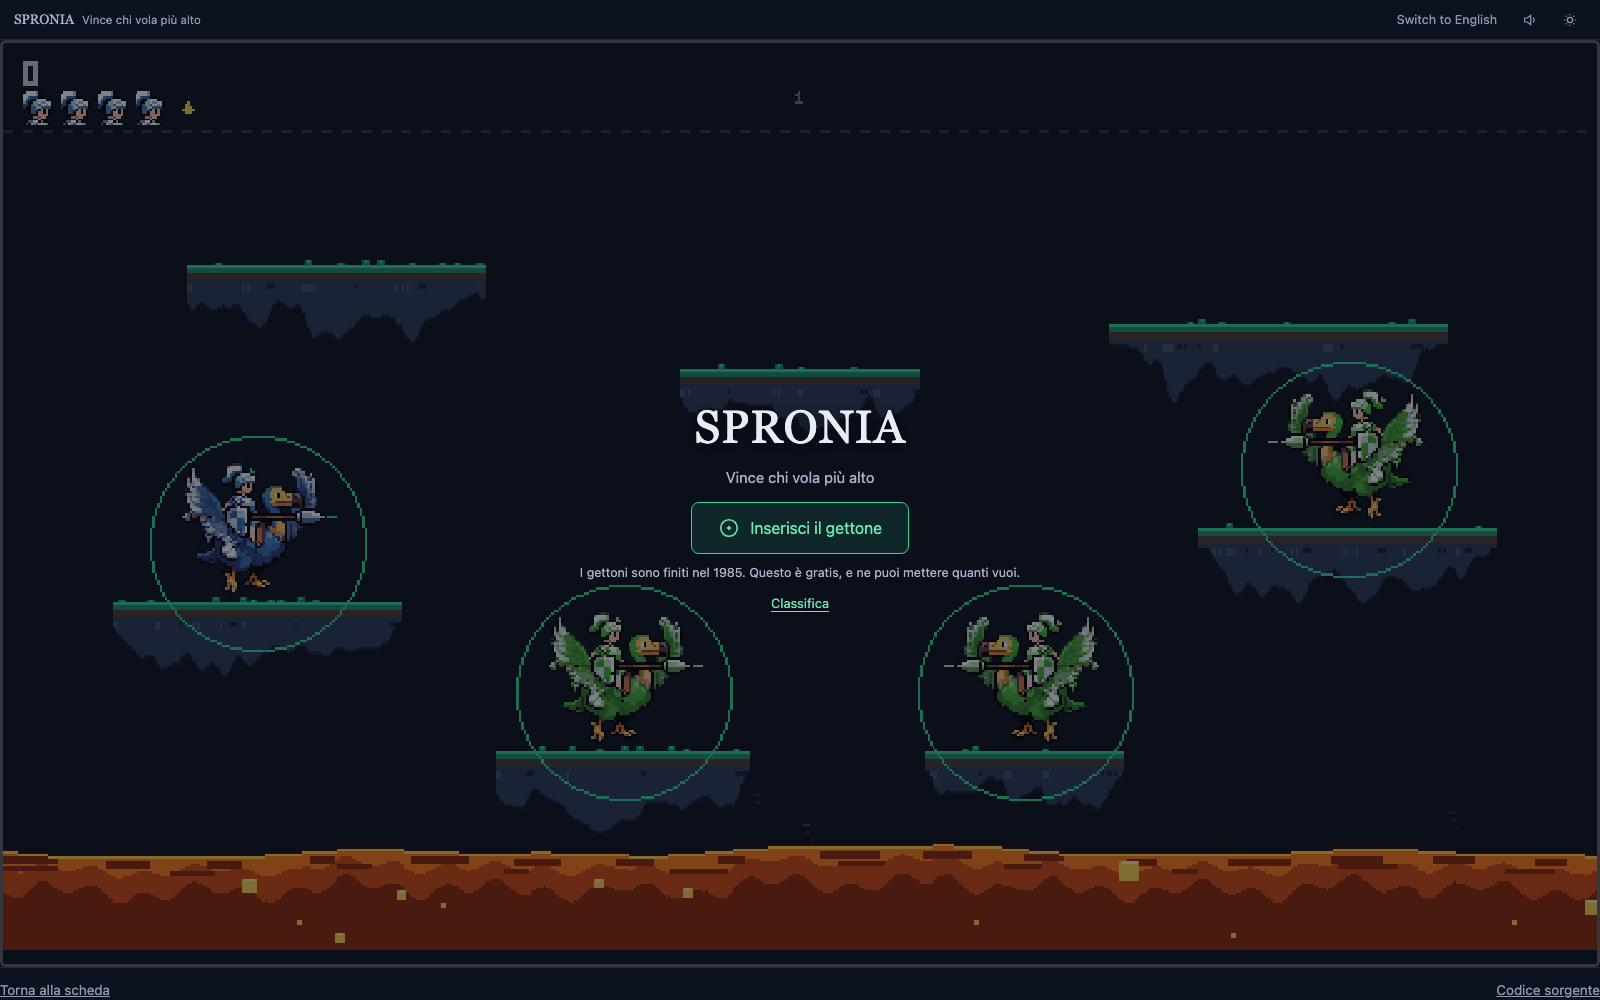
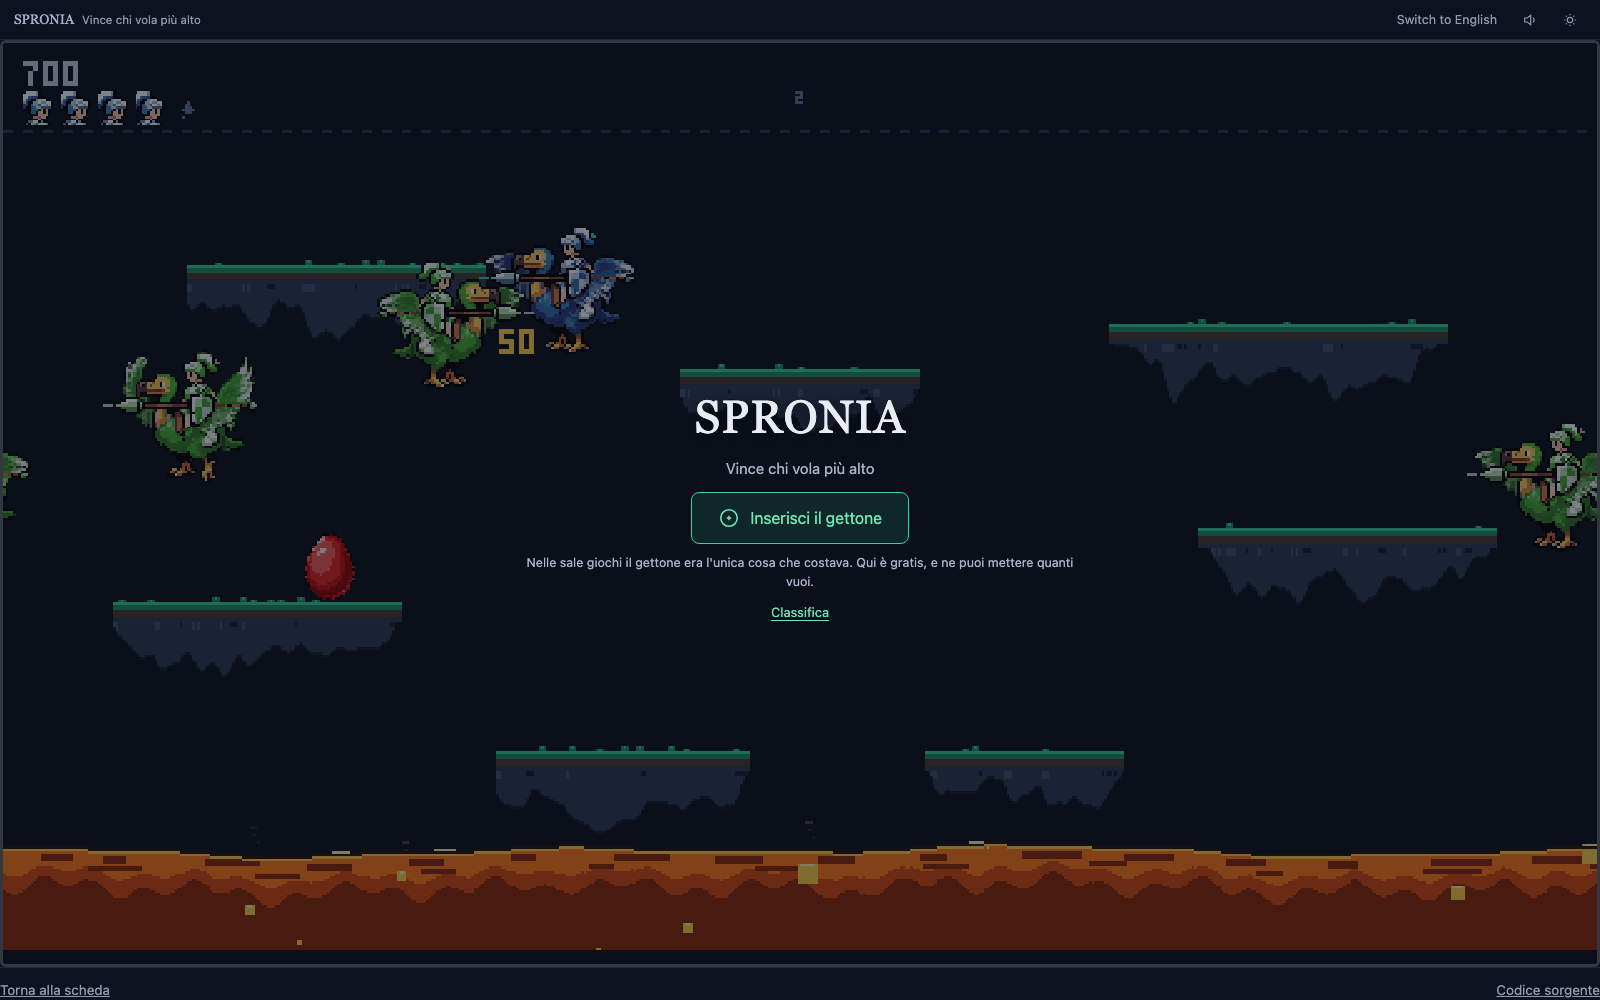
spronia 1.1.2: seconda rilettura, e quello che ha trovato
Screenshot rifatti: adesso la scheda mostra una partita — settecento punti,
ondata due, un duello in corso con il punteggio che vola via e una cella che
cade.

**Una ripetizione, non un errore, ed era la piu' forte della pagina.** «Non c'e'
un tasto per salire» compariva quattro volte sulla scheda: nell'h1, nel
sommario, nell'introduzione e nella riga «Comandi» dei fatti. L'h1 se la tiene;
la riga dei fatti adesso fa il suo mestiere e dice quali sono i tasti.

**Una chiave morta.** `player` era tradotta in due lingue e non la chiedeva
nessuno da quando il pannello di fine partita e' stato riscritto: e' esattamente
la cosa che i due dizionari servono a evitare, e sopravviveva dentro di loro.

Il resto sono nove correzioni di forma, e ognuna ha una ragione:

- «Un giocatore:» apriva la riga dei tasti e c'e' un pulsante che si chiama
  uguale — ora e' «Primo giocatore» / «Secondo giocatore», in tutt'e due le
  lingue;
- «Salvato in <nomefile>» era un calco al contrario: in inglese diceva gia'
  «Saved as», in italiano si dice «Salvato come»;
- «la classifica non verra' tenuta» → «non resta»: il futuro non serviva;
- «Non entra nei primi dieci. La prossima.» era troppo secco per il registro
  del resto;
- in inglese «the rate at which you beat» in una pagina che dice «flap»
  dappertutto, «Level with each other, both bounce away» senza congiunzione,
  «as on a cabinet» senza la glossa che l'italiano ha, e «A person from the team
[…]

diff --git a/en/app/spronia/index.html b/en/app/spronia/index.html
@@ -52,7 +52,7 @@
     "url": "https://ggtechnologies.sm/en/app/spronia/",
     "applicationCategory": "UtilitiesApplication",
     "operatingSystem": "Any (web browser)",
-    "softwareVersion": "1.1.1",
+    "softwareVersion": "1.1.2",
     "datePublished": "2026-08-14",
     "dateModified": "2026-08-27",
     "license": "https://www.apache.org/licenses/LICENSE-2.0",
@@ -154,7 +154,7 @@
         <div class="about-text reveal">
           <p>The apps we publish share a technical constraint rather than a subject: they run on the machine of whoever opens them and send nothing anywhere. A game demonstrates that to everybody who will never open a file of measurements.</p>
           <p>Here the game has one rule and it fits on a line: when two riders touch, the one whose spur is higher stays airborne and the other does not. Everything else — the inertia, the ledges, the metal on the floor — exists to make being higher at the right moment difficult.</p>
-          <p>Flight works the way a flapping machine flies: there is no command for up, there is the rate at which you beat. It is the mechanic that makes the genre recognisable, and it is also why it takes ten seconds to learn and rather longer to master.</p>
+          <p>Flight works the way a flapping machine flies: there is no command for up, there is the rate at which you flap. It is the mechanic that makes the genre recognisable, and it is also why it takes ten seconds to learn and rather longer to master.</p>
         </div>
       <figure class="app-shot reveal">
         <img src="/assets/shot-spronia-en.png" width="1600" height="1000" loading="lazy" decoding="async"
@@ -164,15 +164,15 @@
           <div class="app-list does">
             <h3>What it does</h3>
             <ul class="ticks">
-              <li>You fly by flapping: no key climbs on its own, and holding one down counts as a single beat.</li>
-              <li>On contact the higher spur wins. Level with each other, both bounce away.</li>
+              <li>You fly by flapping: no key climbs on its own, and holding one down counts as a single flap.</li>
+              <li>On contact the higher spur wins. Level with each other and both bounce away.</li>
               <li>Seven ledges across six heights, and the two lowest are short: between them there is nothing but molten metal, so flying low is a choice and not a rest.</li>
               <li>The field wraps horizontally: leave on the right and you come back on the left.</li>
               <li>Whatever you unseat leaves a cell: collect it once it has touched down, or it hatches and comes back a class higher.</li>
               <li>A fire shield that burns whatever you touch, however you touch it: three seconds, and back after ten.</li>
               <li>Waves with rules of their own — cells only, survival, team, duel — announced as they begin.</li>
               <li>Two things come out of the molten metal when you take too long: a claw that grabs whoever flies low, and a fireball that comes for you.</li>
-              <li>A high score table, counters and a coin slot as on a cabinet, with the scores kept in this browser and exportable.</li>
+              <li>A high score table, counters and a coin slot as on an arcade cabinet, with the scores kept in this browser and exportable.</li>
               <li>Sound generated by the browser, with no audio file to download.</li>
               <li>Two play on one keyboard, or one on the keyboard and one on a gamepad, and the keys can be changed if yours will not take the combination.</li>
               <li>After the first visit it works with no connection, in Italian and English, with light and dark themes, and installs as an application.</li>
@@ -199,14 +199,14 @@
             <span class="f-dot" aria-hidden="true"></span>
             <div>
               <h4>Status</h4>
-              <p>Finished and playable throughout: waves, score, lives, high scores and sound. That each of the first sixty waves can be emptied is verified by a check that lives in the code, not by eye.</p>
+              <p>Finished: waves, score, lives, high scores and sound are all there. That each of the first sixty waves can be emptied is verified by a check that lives in the code, not by eye.</p>
             </div>
           </div>
           <div class="fact">
             <span class="f-dot" aria-hidden="true"></span>
             <div>
               <h4>Controls</h4>
-              <p>Two directions, one flap and the fire shield: from the keyboard, or by pressing the field on the side you want to go. There is no command for up.</p>
+              <p>A and D to turn, W to flap, S for the shield — or press the field on the side you want to go, and every press is a flap. The keys can be changed.</p>
             </div>
           </div>
           <div class="fact">
@@ -273,7 +273,7 @@
             </div>
           </div>
         </div>
-        <p class="app-meta"><span><b>Version</b> 1.1.1</span><span><b>Updated</b> 27 August 2026</span><span><b>Licence</b> Apache-2.0</span><a href="https://github.com/G-G-Technologies-Srl/g-g-technologies-srl.github.io/tree/main/app/spronia" rel="noopener">Source code</a></p>
+        <p class="app-meta"><span><b>Version</b> 1.1.2</span><span><b>Updated</b> 27 August 2026</span><span><b>Licence</b> Apache-2.0</span><a href="https://github.com/G-G-Technologies-Srl/g-g-technologies-srl.github.io/tree/main/app/spronia" rel="noopener">Source code</a></p>
       </div>
     </section>
 
@@ -329,7 +329,7 @@
     <section class="cta-band">
       <div class="container">
         <h2>Need something that runs locally?</h2>
-        <p class="section-intro">If you have a case where the data must not leave the machine using it, tell us about it. A person from the team answers you, not an automated reply.</p>
+        <p class="section-intro">If you have a case where the data must not leave the machine using it, tell us about it. A person from the team replies, not an automated message.</p>
         <div class="cta-buttons">
           <a class="btn btn-primary" href="mailto:info@ggtechnologies.sm?subject=SPRONIA%20%E2%80%94%20applications%20that%20run%20locally">Email us</a>
           <a class="btn btn-ghost" href="tel:+3780549900824">Call us</a>

diff --git a/app/spronia/run/i18n.js b/app/spronia/run/i18n.js
@@ -66,9 +66,9 @@ const IT = {
   // -------------------------------------------------------------------------------------------
 
   ctrlTitle: "I comandi",
-  howKeys: "Un giocatore: A e D per girare, W per battere le ali, S per lo scudo.",
-  howKeys2: "Il secondo: frecce sinistra e destra, Maiusc destro per battere, freccia giù per lo "
-    + "scudo.",
+  howKeys: "Primo giocatore: A e D per girare, W per battere le ali, S per lo scudo.",
+  howKeys2: "Secondo giocatore: frecce sinistra e destra, Maiusc destro per battere, freccia giù "
+    + "per lo scudo.",
   howTouch: "Col mouse o col dito: premi il campo dal lato in cui vuoi andare, e ogni pressione è "
     + "un battito. Due tocchi rapidi sulla tua cavalcatura accendono lo scudo.",
 
@@ -113,12 +113,11 @@ const IT = {
   // -------------------------------------------------------------------------------------------
 
   gameOver: "Partita finita",
-  player: "Giocatore",
   yourScore: "{score} punti, ondata {wave}.",
   yourScore2: "Giocatore 1: {one} · Giocatore 2: {two} · ondata {wave}.",
   newBest: "È il punteggio più alto di questo browser.",
   placed: "Entra in classifica al {place}º posto.",
-  notPlaced: "Non entra nei primi dieci. La prossima.",
+  notPlaced: "Non entra nei primi dieci. Sarà per la prossima.",
   noScore: "Zero punti: non c'è niente da salvare. Rimetti un gettone.",
   nameLabel: "Nome",
   namePlaceholder: "Chi ha giocato",
@@ -128,15 +127,15 @@ const IT = {
   liveGameOver: "Partita finita. {score} punti, ondata {wave}.",
 
   scoresTitle: "Classifica",
-  scoresLocal: "È la classifica di questo browser, su questa macchina. Come quella di un cabinato: "
-    + "per batterla si torna qui.",
+  scoresLocal: "È la classifica di questo browser, su questa macchina. Come quella di un cabinato "
+    + "da sala giochi: per batterla si torna qui.",
   scoresPos: "#",
   scoresName: "Nome",
   scoresScore: "Punti",
   scoresWave: "Ondata",
   scoresDate: "Quando",
   scoresEmpty: "Ancora nessuna partita salvata.",
-  storageOff: "Questo browser non lascia salvare niente: la classifica non verrà tenuta.",
+  storageOff: "Questo browser non lascia salvare niente: la classifica non resta.",
   statsGames: "partite",
   statsBest: "ondata più alta",
   statsCoins: "gettoni",
@@ -146,7 +145,7 @@ const IT = {
   import: "Importa",
   clear: "Svuota",
   clearAsk: "Cancellare la classifica e i contatori?",
-  exported: "Salvato in {name}.",
+  exported: "Salvato come {name}.",
   imported: "Rimesse {n} voci.",
   importNotJson: "Questo file non è un JSON leggibile.",
   importNotExport: "Questo file non è un'esportazione di SPRONIA.",
@@ -171,6 +170,9 @@ const IT = {
   //  i l   c o n t o r n o
   // -------------------------------------------------------------------------------------------
 
+  // Le due chiavi portano il nome dello **stato**, non dell'azione: `soundOn` è l'etichetta che
+  // compare **mentre** il suono è acceso, e dice quindi «spegni». Scritto qui perché è il tipo di
+  // coppia che prima o poi qualcuno scambia leggendo solo il nome.
   soundOn: "Spegni il suono",
   soundOff: "Accendi il suono",
   themeToLight: "Passa al tema chiaro",
@@ -219,9 +221,10 @@ const EN = {
     + "worth nothing.",
   bonusEarned: "Bonus: {points}",
 
-  ctrlTitle: "The controls",
-  howKeys: "One player: A and D to turn, W to flap, S for the shield.",
-  howKeys2: "The second: left and right arrows, right Shift to flap, down arrow for the shield.",
+  ctrlTitle: "Controls",
+  howKeys: "First player: A and D to turn, W to flap, S for the shield.",
+  howKeys2: "Second player: left and right arrows, right Shift to flap, down arrow for the "
+    + "shield.",
   howTouch: "With the mouse or a finger: press the field on the side you want to go, and every "
     + "press is a flap. Two quick taps on your own mount light the shield.",
 
@@ -256,7 +259,6 @@ const EN = {
   keysDone: "Done",
 
   gameOver: "Game over",
-  player: "Player",
   yourScore: "{score} points, wave {wave}.",
   yourScore2: "Player 1: {one} · Player 2: {two} · wave {wave}.",
   newBest: "It is the highest score in this browser.",
@@ -271,8 +273,8 @@ const EN = {
   liveGameOver: "Game over. {score} points, wave {wave}.",
 
   scoresTitle: "High scores",
-  scoresLocal: "This is the table of this browser, on this machine. Like a cabinet's: to beat it "
-    + "you come back here.",
+  scoresLocal: "This is the table of this browser, on this machine. Like an arcade cabinet's: to "
+    + "beat it you come back here.",
   scoresPos: "#",
   scoresName: "Name",
   scoresScore: "Score",

diff --git a/app/spronia/index.html b/app/spronia/index.html
@@ -52,7 +52,7 @@
     "url": "https://ggtechnologies.sm/app/spronia/",
     "applicationCategory": "UtilitiesApplication",
     "operatingSystem": "Any (web browser)",
-    "softwareVersion": "1.1.1",
+    "softwareVersion": "1.1.2",
     "datePublished": "2026-08-14",
     "dateModified": "2026-08-27",
     "license": "https://www.apache.org/licenses/LICENSE-2.0",
@@ -199,14 +199,14 @@
             <span class="f-dot" aria-hidden="true"></span>
             <div>
               <h4>Stato</h4>
-              <p>Finito e giocabile per intero: ondate, punteggio, vite, classifica e suono. Che ognuna delle prime sessanta ondate si possa svuotare è verificato da un controllo che sta nel codice, non a occhio.</p>
+              <p>Finito: ondate, punteggio, vite, classifica e suono ci sono tutti. Che ognuna delle prime sessanta ondate si possa svuotare è verificato da un controllo che sta nel codice, non a occhio.</p>
             </div>
           </div>
           <div class="fact">
             <span class="f-dot" aria-hidden="true"></span>
             <div>
               <h4>Comandi</h4>
-              <p>Due direzioni, un battito e lo scudo di fuoco: da tastiera, oppure premendo il campo dal lato in cui vuoi andare. Non esiste un comando per salire.</p>
+              <p>A e D per girare, W per battere le ali, S per lo scudo — oppure premi il campo dal lato in cui vuoi andare, e ogni pressione è un battito. I tasti si possono cambiare.</p>
             </div>
           </div>
           <div class="fact">
@@ -273,7 +273,7 @@
             </div>
           </div>
         </div>
-        <p class="app-meta"><span><b>Versione</b> 1.1.1</span><span><b>Aggiornata il</b> 27 agosto 2026</span><span><b>Licenza</b> Apache-2.0</span><a href="https://github.com/G-G-Technologies-Srl/g-g-technologies-srl.github.io/tree/main/app/spronia" rel="noopener">Codice sorgente</a></p>
+        <p class="app-meta"><span><b>Versione</b> 1.1.2</span><span><b>Aggiornata il</b> 27 agosto 2026</span><span><b>Licenza</b> Apache-2.0</span><a href="https://github.com/G-G-Technologies-Srl/g-g-technologies-srl.github.io/tree/main/app/spronia" rel="noopener">Codice sorgente</a></p>
       </div>
     </section>
 

diff --git a/en/app/astrodroid/index.html b/en/app/astrodroid/index.html
@@ -307,7 +307,7 @@
     <section class="cta-band">
       <div class="container">
         <h2>Need something that runs locally?</h2>
-        <p class="section-intro">If you have a case where the data must not leave the machine using it, tell us about it. A person from the team answers you, not an automated reply.</p>
+        <p class="section-intro">If you have a case where the data must not leave the machine using it, tell us about it. A person from the team replies, not an automated message.</p>
         <div class="cta-buttons">
           <a class="btn btn-primary" href="mailto:info@ggtechnologies.sm?subject=AstroDroid%20%E2%80%94%20applications%20that%20run%20locally">Email us</a>
           <a class="btn btn-ghost" href="tel:+3780549900824">Call us</a>

diff --git a/en/app/csv-scope/index.html b/en/app/csv-scope/index.html
@@ -211,7 +211,7 @@
             <span class="f-dot" aria-hidden="true"></span>
             <div>
               <h4>High scores</h4>
-              <p>They stay in this browser, on this computer, like a cabinet's. You can export them to a file and put them back elsewhere.</p>
+              <p>They stay in this browser, on this computer, like an arcade cabinet's. You can export them to a file and put them back elsewhere.</p>
             </div>
           </div>
           <div class="fact">

diff --git a/app/spronia/run/sw.js b/app/spronia/run/sw.js
@@ -10,7 +10,7 @@
 //  - no skipWaiting and no clients.claim: an update lands at the next start. Swapping files under
 //    a running app means changing the code while somebody is halfway through a game.
 
-const VERSION = '1.1.1';
+const VERSION = '1.1.2';
 const CACHE = `spronia-v${VERSION}`;
 
 // Every file the app is made of, plus the shared modules it borrows. Kept by hand and checked by

diff --git a/_src/apps.py b/_src/apps.py
@@ -326,8 +326,9 @@ APPS = [
                          "network requests."),
                 ("Size", "Tested on a 12 MB file of a hundred thousand rows: it opens in a "
                          "little over a second."),
-                ("High scores", "They stay in this browser, on this computer, like a cabinet's. "
-                                "You can export them to a file and put them back elsewhere."),
+                ("High scores", "They stay in this browser, on this computer, like an arcade "
+                                "cabinet's. You can export them to a file and put them back "
+                                "elsewhere."),
                 ("Sound", "The browser generates it as you play: there is no audio file to "
                           "download. It switches off from the bar at the top."),
                 ("Offline", "After the first visit it works without a connection."),
@@ -600,8 +601,8 @@ APPS = [
             ],
             "cta_title": "Need something that runs locally?",
             "cta_text": "If you have a case where the data must not leave the machine using it, "
-                        "tell us about it. A person from the team answers you, not an automated "
-                        "reply.",
+                        "tell us about it. A person from the team replies, not an automated "
+                        "message.",
             "mail_subject": "AstroDroid — applications that run locally",
             "related": ["onprem", "ai", "digisense"],
             "art": {
@@ -625,7 +626,7 @@ APPS = [
         "order": 3,
         "tags": ["svago"],
         "stato": "pronto",
-        "version": "1.1.1",
+        "version": "1.1.2",
         "released": "2026-08-14",
         "updated": "2026-08-27",
         "licence": "Apache-2.0",
@@ -696,12 +697,12 @@ APPS = [
             ],
             "facts_title": "In breve",
             "facts": [
-                ("Stato", "Finito e giocabile per intero: ondate, punteggio, vite, classifica "
-                          "e suono. Che ognuna delle prime sessanta ondate si possa svuotare è "
-                          "verificato da un controllo che sta nel codice, non a occhio."),
-                ("Comandi", "Due direzioni, un battito e lo scudo di fuoco: da tastiera, oppure "
-                            "premendo il campo dal lato in cui vuoi andare. Non esiste un comando "
-                            "per salire."),
+                ("Stato", "Finito: ondate, punteggio, vite, classifica e suono ci sono tutti. "
+                          "Che ognuna delle prime sessanta ondate si possa svuotare è verificato "
+                          "da un controllo che sta nel codice, non a occhio."),
+                ("Comandi", "A e D per girare, W per battere le ali, S per lo scudo — oppure "
+                            "premi il campo dal lato in cui vuoi andare, e ogni pressione è un "
+                            "battito. I tasti si possono cambiare."),
                 ("Dati", "Restano sul tuo computer. Dopo il caricamento della pagina l'app non fa "
                          "richieste di rete."),
                 ("Due giocatori", "Sulla stessa tastiera, o con un gamepad. Non sul telefono."),
@@ -796,15 +797,15 @@ APPS = [
                 "inertia, the ledges, the metal on the floor — exists to make being higher at the "
                 "right moment difficult.",
                 "Flight works the way a flapping machine flies: there is no command for up, there "
-                "is the rate at which you beat. It is the mechanic that makes the genre "
+                "is the rate at which you flap. It is the mechanic that makes the genre "
                 "recognisable, and it is also why it takes ten seconds to learn and rather longer "
                 "to master.",
             ],
             "does_title": "What it does",
             "does": [
                 "You fly by flapping: no key climbs on its own, and holding one down counts as a "
-                "single beat.",
-                "On contact the higher spur wins. Level with each other, both bounce away.",
+                "single flap.",
+                "On contact the higher spur wins. Level with each other and both bounce away.",
                 "Seven ledges across six heights, and the two lowest are short: between them "
                 "there is nothing but molten metal, so flying low is a choice and not a rest.",
                 "The field wraps horizontally: leave on the right and you come back on the left.",
@@ -816,8 +817,8 @@ APPS = [
                 "they begin.",
                 "Two things come out of the molten metal when you take too long: a claw that "
                 "grabs whoever flies low, and a fireball that comes for you.",
-                "A high score table, counters and a coin slot as on a cabinet, with the scores "
-                "kept in this browser and exportable.",
+                "A high score table, counters and a coin slot as on an arcade cabinet, with the "
+                "scores kept in this browser and exportable.",
                 "Sound generated by the browser, with no audio file to download.",
                 "Two play on one keyboard, or one on the keyboard and one on a gamepad, and the "
                 "keys can be changed if yours will not take the combination.",
@@ -836,12 +837,12 @@ APPS = [
             ],
             "facts_title": "In brief",
             "facts": [
-                ("Status", "Finished and playable throughout: waves, score, lives, high scores "
-                           "and sound. That each of the first sixty waves can be emptied is "
-                           "verified by a check that lives in the code, not by eye."),
-                ("Controls", "Two directions, one flap and the fire shield: from the keyboard, "
-                             "or by pressing the field on the side you want to go. There is no "
-                             "command for up."),
+                ("Status", "Finished: waves, score, lives, high scores and sound are all there. "
+                           "That each of the first sixty waves can be emptied is verified by a "
+                           "check that lives in the code, not by eye."),
+                ("Controls", "A and D to turn, W to flap, S for the shield — or press the field "
+                             "on the side you want to go, and every press is a flap. The keys can "
+                             "be changed."),
                 ("Data", "Stays on your computer. After the page has loaded the app makes no "
                          "network requests."),
                 ("Two players", "On one keyboard, or with a gamepad. Not on a phone."),
@@ -897,8 +898,8 @@ APPS = [
             ],
             "cta_title": "Need something that runs locally?",
             "cta_text": "If you have a case where the data must not leave the machine using it, "
-                        "tell us about it. A person from the team answers you, not an automated "
-                        "reply.",
+                        "tell us about it. A person from the team replies, not an automated "
+                        "message.",
             "mail_subject": "SPRONIA — applications that run locally",
             "related": ["onprem", "robotics", "digisense"],
             "art": {
